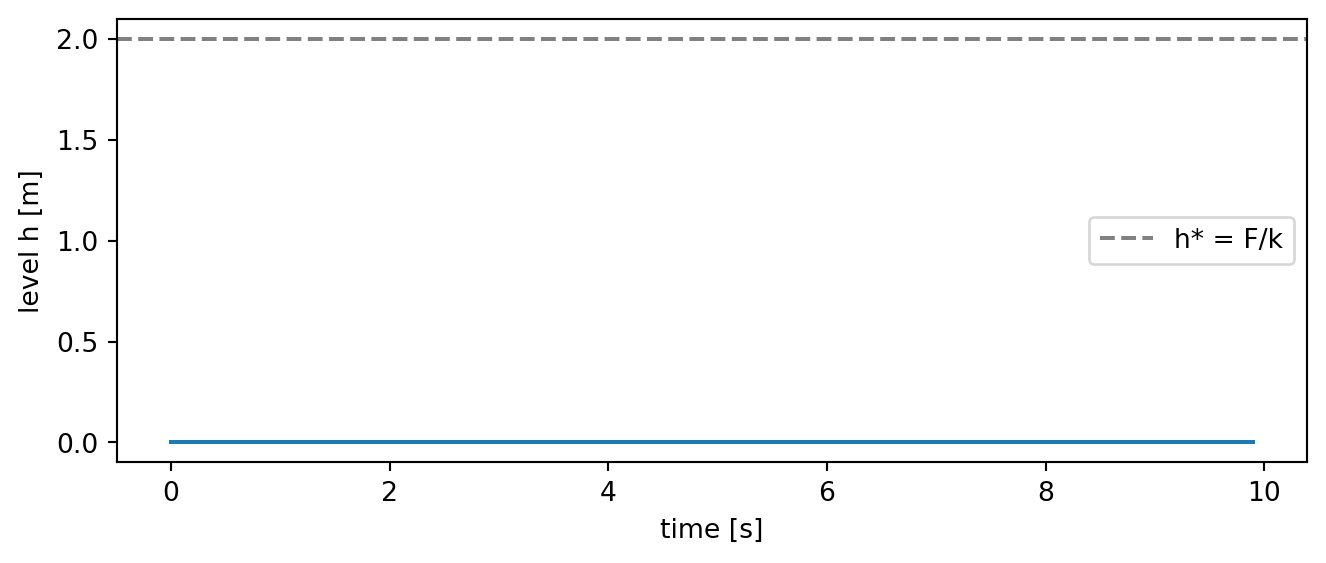
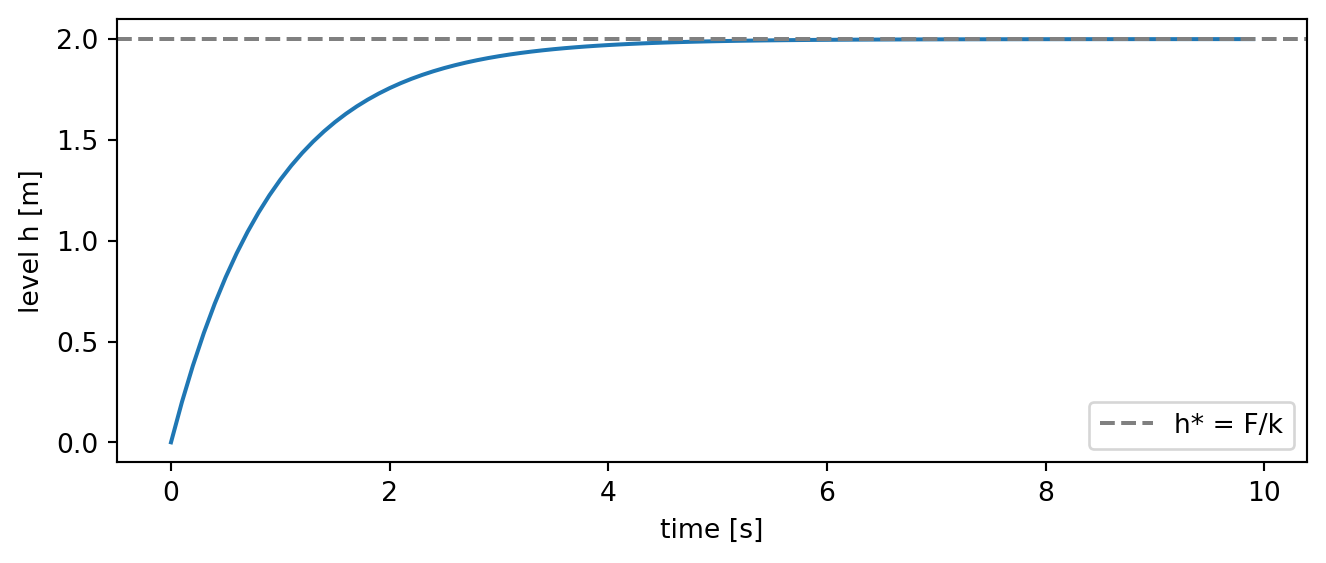
Built site for gh-pages

diff --git a/labs/lab0d_bucket.html b/labs/lab0d_bucket.html
@@ -274,7 +274,7 @@ window.Quarto = {
 </section>
 <section id="a-narrow-tube-instead-viscosity-resists-poiseuilles-law" class="level3">
 <h3 class="anchored" data-anchor-id="a-narrow-tube-instead-viscosity-resists-poiseuilles-law">A narrow tube instead — viscosity resists (Poiseuille’s law)</h3>
-<p>Replace the hole with a long thin pipe — radius <span class="math inline">\(r\)</span>, length <span class="math inline">\(L\)</span>, so the same opening area <span class="math inline">\(a=\pi r^{2}\)</span> — or with a plug of sand. In such a pipe the water is not free to move easily, and the friction or viscosity at the pipe wall starts to become important.</p>
+<p>Replace the hole with a long thin pipe — radius <span class="math inline">\(r\)</span>, length <span class="math inline">\(L\)</span>, so the same opening area <span class="math inline">\(a=\pi r^{2}\)</span>. In such a pipe the water is not free to move easily, and the friction or viscosity at the pipe wall starts to become important.</p>
 <p>Fluid touching a solid surface does not slide along it — it sticks. (This is the <strong>no-slip condition</strong>, an experimental fact about fluids and walls.) So inside the tube the water is stationary at the wall and fastest in the middle: neighbouring layers of fluid are sliding past one another.</p>
 <p>Viscosity is the resistance to exactly that sliding. <strong>Newton’s law of viscosity</strong> says the drag force per unit area between layers is proportional to how rapidly velocity changes across the flow:</p>
 <p><span class="math display">\[\tau \;=\; \mu \frac{dv}{dy} \;\sim\; \mu \frac{v}{r}\]</span></p>
@@ -286,14 +286,13 @@ window.Quarto = {
 </ul>
 <p>For water <span class="math inline">\(\mu \approx 1\times10^{-3}\)</span> Pa s; air is about 50 times less viscous, honey about 10,000 times more.</p>
 <p>We used <span class="math inline">\(v/r\)</span> as a “scaling” assuming that the speed goes from roughly <span class="math inline">\(v\)</span> at the centre to zero at the wall, across a distance of about the tube radius <span class="math inline">\(r\)</span>. That stress acts over the whole inner wall of the tube, area <span class="math inline">\(2\pi r L\)</span>, so the total resisting force is <span class="math inline">\(\mu (v/r)\cdot 2\pi r L\)</span>.</p>
-<p>Meanwhile the water is pushed along by the <strong>pressure</strong> of the column standing above the tube. Pressure is also a force spread over an area, and where it comes from is worth one line: a column of water of height <span class="math inline">\(h\)</span> sitting on an area <span class="math inline">\(a\)</span> has volume <span class="math inline">\(ah\)</span>, mass <span class="math inline">\(\rho a h\)</span>, and therefore weight <span class="math inline">\(\rho a h g\)</span>. Divide that weight by the area it presses on, and the area cancels:</p>
-<p><span class="math display">\[P \;=\; \frac{\text{weight of the column}}{\text{area}} \;=\; \frac{\rho\,a\,h\,g}{a} \;=\; \rho g h
+<p>Meanwhile the water is pushed along by the <strong>pressure</strong> of the column standing above the tube. In this case we can estimate the pressure as the force exerted by the weight of the fluid per unit area. So pressure on the inside is:</p>
+<p><span class="math display">\[P \;=\; \frac{\text{weight of the column}}{\text{area}} \;=\; \frac{\rho\,A\,h\,g}{A} \;=\; \rho g h
 \qquad [\text{kg m}^{-3}][\text{m s}^{-2}][\text{m}] = [\text{kg m}^{-1}\text{s}^{-2}] = [\text{Pa}]\]</span></p>
-<p>So the pressure at the bottom of a bucket does not care how wide the bucket is — only how deep the water is. And notice that <span class="math inline">\(\rho g h\)</span> carries <strong>the same units as the viscous stress <span class="math inline">\(\tau\)</span></strong>: both are forces spread over an area. That is exactly why the two can be set against each other in the next step.</p>
-<p>This pressure acts on the tube’s cross-section <span class="math inline">\(\pi r^2\)</span>.</p>
-<p><strong>The balance we now assume is a different one:</strong> the pressure force is opposed by viscous drag, and the two are in equilibrium. Nothing accelerates — the flow settles at whatever speed makes push and drag equal, exactly like a falling object reaching terminal velocity. Here viscosity dominates and inertia is neglected, the <em>opposite</em> choice from Torricelli:</p>
+<p>The pressure at the bottom of a bucket does not care how wide the bucket is — only how deep the water is. Pressure is also just a number at every point in the fluid, and acts equally in all directions, so pressure due to weight of water above the hole acts the same way into the hole. This pressure acts on the tube’s cross-section <span class="math inline">\(\pi r^2\)</span>.</p>
+<p><strong>The balance is now a force balance</strong>: the pressure force is opposed by viscous drag, and the two are in equilibrium. Nothing accelerates — the flow settles at whatever speed makes push and drag equal. Here viscosity dominates and inertia is neglected, the <em>opposite</em> choice from Torricelli:</p>
 <p><span class="math display">\[\underbrace{\rho g h \cdot \pi r^{2}}_{\text{pressure pushing}} \;\sim\; \underbrace{\mu \frac{v}{r}\cdot 2\pi r L}_{\text{wall drag}} \quad\Longrightarrow\quad v \sim \frac{\rho g h\, r^{2}}{\mu L} \quad\Longrightarrow\quad Q = v\,\pi r^{2} \;\propto\; h\]</span></p>
-<p>The outflow is <strong>linear</strong> in <span class="math inline">\(h\)</span>. Notice also <span class="math inline">\(Q \propto r^{4}\)</span>: halving the tube radius cuts the flow sixteenfold — which is why water races out of a hole but creeps through soil.</p>
+<p>The outflow is <strong>linear</strong> in <span class="math inline">\(h\)</span>. Notice also <span class="math inline">\(Q \propto r^{4}\)</span>: halving the tube radius cuts the flow sixteenfold.</p>
 <blockquote class="blockquote">
 <p><strong>Scaling arguments get the form right, not the constant.</strong></p>
 <p>Solving the flow exactly (Poiseuille) gives <span class="math inline">\(Q = \pi r^{4}\rho g h / (8\mu L)\)</span>. Our argument got every dependence right and missed only the factor of 8.</p>
@@ -334,38 +333,9 @@ window.Quarto = {
 </section>
 <section id="so-which-law" class="level3">
 <h3 class="anchored" data-anchor-id="so-which-law">So which law?</h3>
-<table class="caption-top table">
-<colgroup>
-<col style="width: 25%">
-<col style="width: 25%">
-<col style="width: 25%">
-<col style="width: 25%">
-</colgroup>
-<thead>
-<tr class="header">
-<th>exit</th>
-<th>what resists</th>
-<th>what the driving goes into</th>
-<th>outflow</th>
-</tr>
-</thead>
-<tbody>
-<tr class="odd">
-<td>free hole</td>
-<td>nothing</td>
-<td>kinetic energy</td>
-<td><span class="math inline">\(Q \propto \sqrt{h}\)</span></td>
-</tr>
-<tr class="even">
-<td>narrow tube, soil</td>
-<td>viscous drag at the walls</td>
-<td>heat (dissipation)</td>
-<td><span class="math inline">\(Q \propto h\)</span></td>
-</tr>
-</tbody>
-</table>
-<p>Same bucket, different plumbing, different law. <strong>Choosing the law is a modelling decision</strong> — one to justify from physics, not convenience.</p>
-<p>For the rest of today we use the <strong>linear</strong> law, <span class="math inline">\(Q = k\,h\)</span>, because it is the simplest thing with the right behaviour:</p>
+<p><span class="math inline">\(Q \propto \sqrt{h}\)</span> or <span class="math inline">\(Q \propto h\)</span> ?</p>
+<p>Same bucket, different plumbing, different law. <strong>Choosing the law is a modelling decision</strong> — one to justify from physics and knowledge of the system, not convenience.</p>
+<p>For the rest of today we use the <strong>linear</strong> law, <span class="math inline">\(Q = k\,h\)</span>, because it is the simplest thing:</p>
 <p><span class="math display">\[A\,\frac{dh}{dt} \;=\; F \;-\; k\,h\]</span></p>
 <p>with <span class="math inline">\(k\)</span> [m²/s] the drain constant.</p>
 </section>
@@ -397,7 +367,7 @@ window.Quarto = {
 <h2 class="anchored" data-anchor-id="step-forward-in-time">4. Step forward in time</h2>
 <p>The equation tells us the <em>rate of change</em> right now. So predict a small step ahead, over and over:</p>
 <p><span class="math display">\[h_{\text{next}} = h_{\text{now}} + \Delta t \cdot \frac{F - k\,h_{\text{now}}}{A}\]</span></p>
-<p><em>(This is called Euler’s method — it’s how almost every model marches time forward.)</em></p>
+<p><em>(This is called Euler’s method — it’s how we march time forward.)</em></p>
 <p><strong>Fill in the one missing line:</strong></p>
 <blockquote class="blockquote">
 <p>Until you fill it in, the rate of change is zero — so your plot will be a <strong>flat line</strong>. That flat line is the model telling you it has no physics in it yet.</p>
@@ -406,16 +376,18 @@ window.Quarto = {
 <div class="code-copy-outer-scaffold"><div class="sourceCode cell-code" id="cb3"><pre class="sourceCode python code-with-copy"><code class="sourceCode python"><span id="cb3-1"><a href="#cb3-1" aria-hidden="true" tabindex="-1"></a><span class="kw">def</span> run_bucket(h0, F, k, A<span class="op">=</span><span class="fl">1.0</span>, dt<span class="op">=</span><span class="fl">0.1</span>, n_steps<span class="op">=</span><span class="dv">100</span>):</span>
 <span id="cb3-2"><a href="#cb3-2" aria-hidden="true" tabindex="-1"></a>    <span class="co">"""March the bucket forward from level h0. Returns times and levels."""</span></span>
 <span id="cb3-3"><a href="#cb3-3" aria-hidden="true" tabindex="-1"></a>    h <span class="op">=</span> np.zeros(n_steps)</span>
-<span id="cb3-4"><a href="#cb3-4" aria-hidden="true" tabindex="-1"></a>    h[<span class="dv">0</span>] <span class="op">=</span> h0</span>
+<span id="cb3-4"><a href="#cb3-4" aria-hidden="true" tabindex="-1"></a>    h[<span class="dv">0</span>] <span class="op">=</span> h0 <span class="co"># initial condition</span></span>
 <span id="cb3-5"><a href="#cb3-5" aria-hidden="true" tabindex="-1"></a>    <span class="cf">for</span> i <span class="kw">in</span> <span class="bu">range</span>(<span class="dv">1</span>, n_steps):</span>
-<span id="cb3-6"><a href="#cb3-6" aria-hidden="true" tabindex="-1"></a>        h[i] <span class="op">=</span> h[i<span class="op">-</span><span class="dv">1</span>] <span class="op">+</span> dt <span class="op">*</span> <span class="fl">0.0</span>   <span class="co"># &lt;-- FILL THIS IN: what is dh/dt?</span></span>
+<span id="cb3-6"><a href="#cb3-6" aria-hidden="true" tabindex="-1"></a>        h[i] <span class="op">=</span> h[i<span class="op">-</span><span class="dv">1</span>] <span class="op">+</span> dt <span class="op">*</span> (F <span class="op">-</span> k<span class="op">*</span>h[i<span class="op">-</span><span class="dv">1</span>])<span class="op">/</span>A   <span class="co"># &lt;-- FILL THIS IN: what is dh/dt?</span></span>
 <span id="cb3-7"><a href="#cb3-7" aria-hidden="true" tabindex="-1"></a>    <span class="cf">return</span> np.arange(n_steps) <span class="op">*</span> dt, h</span>
 <span id="cb3-8"><a href="#cb3-8" aria-hidden="true" tabindex="-1"></a></span>
 <span id="cb3-9"><a href="#cb3-9" aria-hidden="true" tabindex="-1"></a>t, h <span class="op">=</span> run_bucket(h0<span class="op">=</span><span class="fl">0.0</span>, F<span class="op">=</span><span class="fl">2.0</span>, k<span class="op">=</span><span class="fl">1.0</span>)</span>
-<span id="cb3-10"><a href="#cb3-10" aria-hidden="true" tabindex="-1"></a>plt.figure(figsize<span class="op">=</span>(<span class="dv">8</span>, <span class="dv">3</span>))</span>
-<span id="cb3-11"><a href="#cb3-11" aria-hidden="true" tabindex="-1"></a>plt.plot(t, h)</span>
-<span id="cb3-12"><a href="#cb3-12" aria-hidden="true" tabindex="-1"></a>plt.axhline(<span class="fl">2.0</span>, ls<span class="op">=</span><span class="st">"--"</span>, color<span class="op">=</span><span class="st">"gray"</span>, label<span class="op">=</span><span class="st">"h* = F/k"</span>)</span>
-<span id="cb3-13"><a href="#cb3-13" aria-hidden="true" tabindex="-1"></a>plt.xlabel(<span class="st">"time [s]"</span>)<span class="op">;</span> plt.ylabel(<span class="st">"level h [m]"</span>)<span class="op">;</span> plt.legend()<span class="op">;</span></span></code></pre></div><button title="Copy to Clipboard" class="code-copy-button"><i class="bi"></i></button></div>
+<span id="cb3-10"><a href="#cb3-10" aria-hidden="true" tabindex="-1"></a></span>
+<span id="cb3-11"><a href="#cb3-11" aria-hidden="true" tabindex="-1"></a></span>
+<span id="cb3-12"><a href="#cb3-12" aria-hidden="true" tabindex="-1"></a>plt.figure(figsize<span class="op">=</span>(<span class="dv">8</span>, <span class="dv">3</span>))</span>
+<span id="cb3-13"><a href="#cb3-13" aria-hidden="true" tabindex="-1"></a>plt.plot(t, h)</span>
+<span id="cb3-14"><a href="#cb3-14" aria-hidden="true" tabindex="-1"></a>plt.axhline(<span class="fl">2.0</span>, ls<span class="op">=</span><span class="st">"--"</span>, color<span class="op">=</span><span class="st">"gray"</span>, label<span class="op">=</span><span class="st">"h* = F/k"</span>)</span>
+<span id="cb3-15"><a href="#cb3-15" aria-hidden="true" tabindex="-1"></a>plt.xlabel(<span class="st">"time [s]"</span>)<span class="op">;</span> plt.ylabel(<span class="st">"level h [m]"</span>)<span class="op">;</span> plt.legend()<span class="op">;</span></span></code></pre></div><button title="Copy to Clipboard" class="code-copy-button"><i class="bi"></i></button></div>
 <div class="cell-output cell-output-display">
 <div>
 <figure class="figure">
@@ -487,7 +459,7 @@ window.Quarto = {
 </tr>
 </tbody>
 </table>
-<p><strong>Discuss:</strong> which mattered at short times? Which at long times? Keep this table — it comes back in week 11, quantified for the real Earth.</p>
+<p><strong>Discuss:</strong> which mattered at short times? Which at long times?</p>
 <p><em>Before you leave: make sure today’s notebooks are saved in your course repo, and your repo link is posted on Courseworks.</em></p>
 
 
